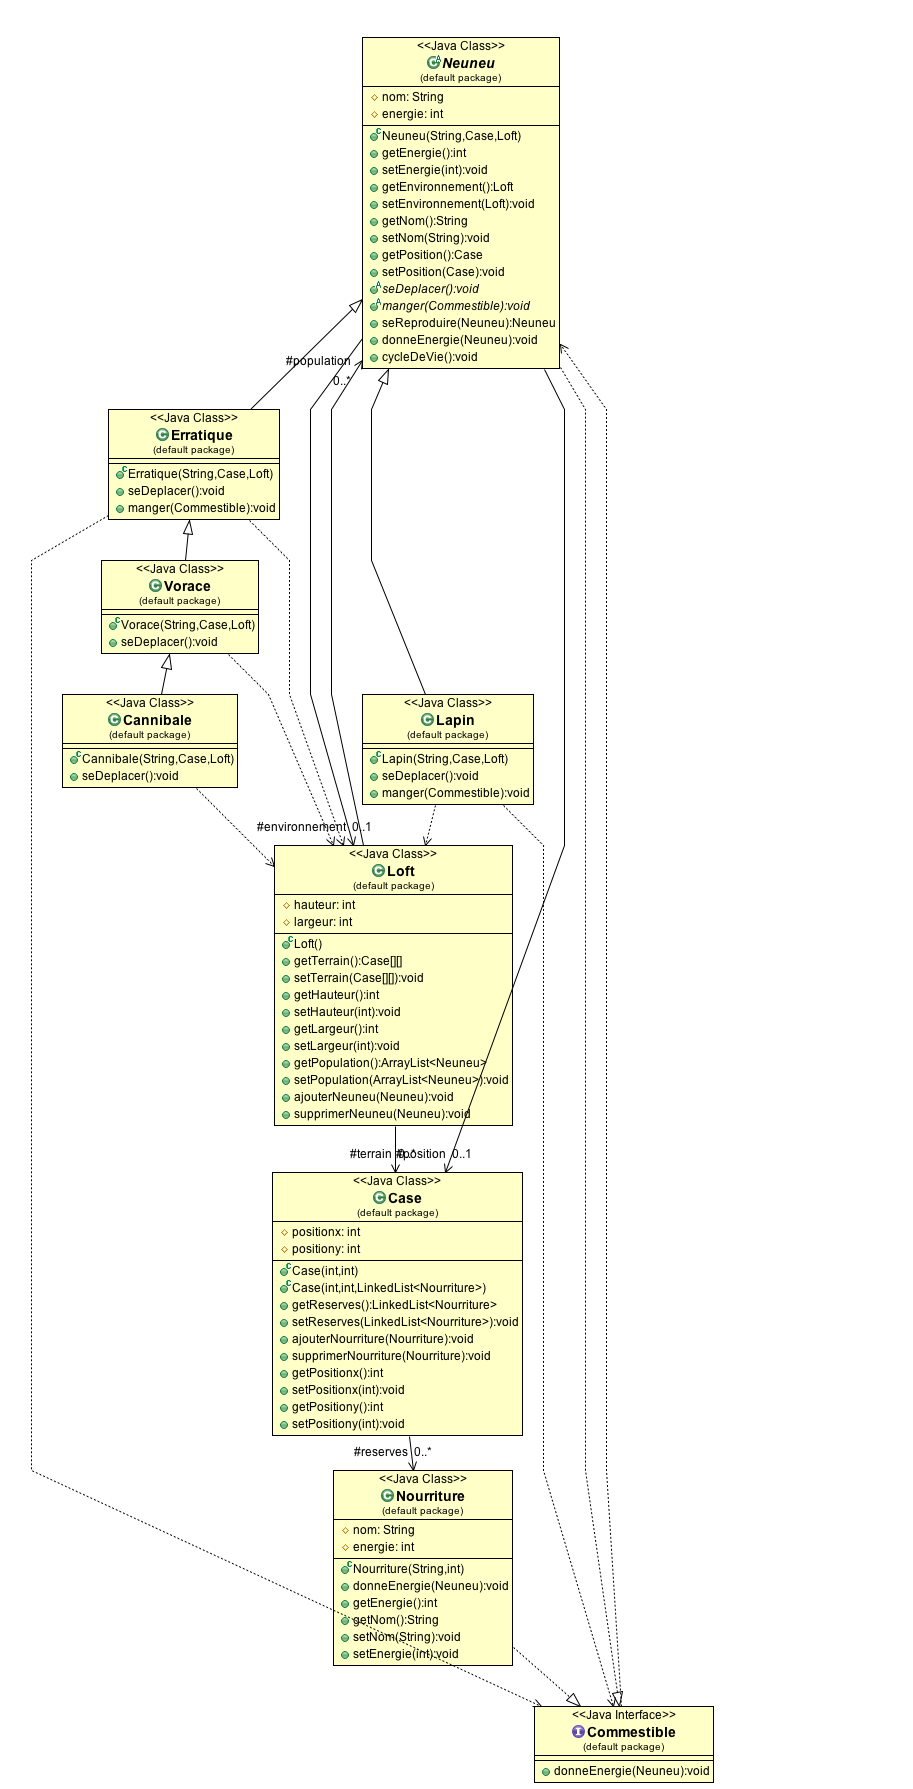
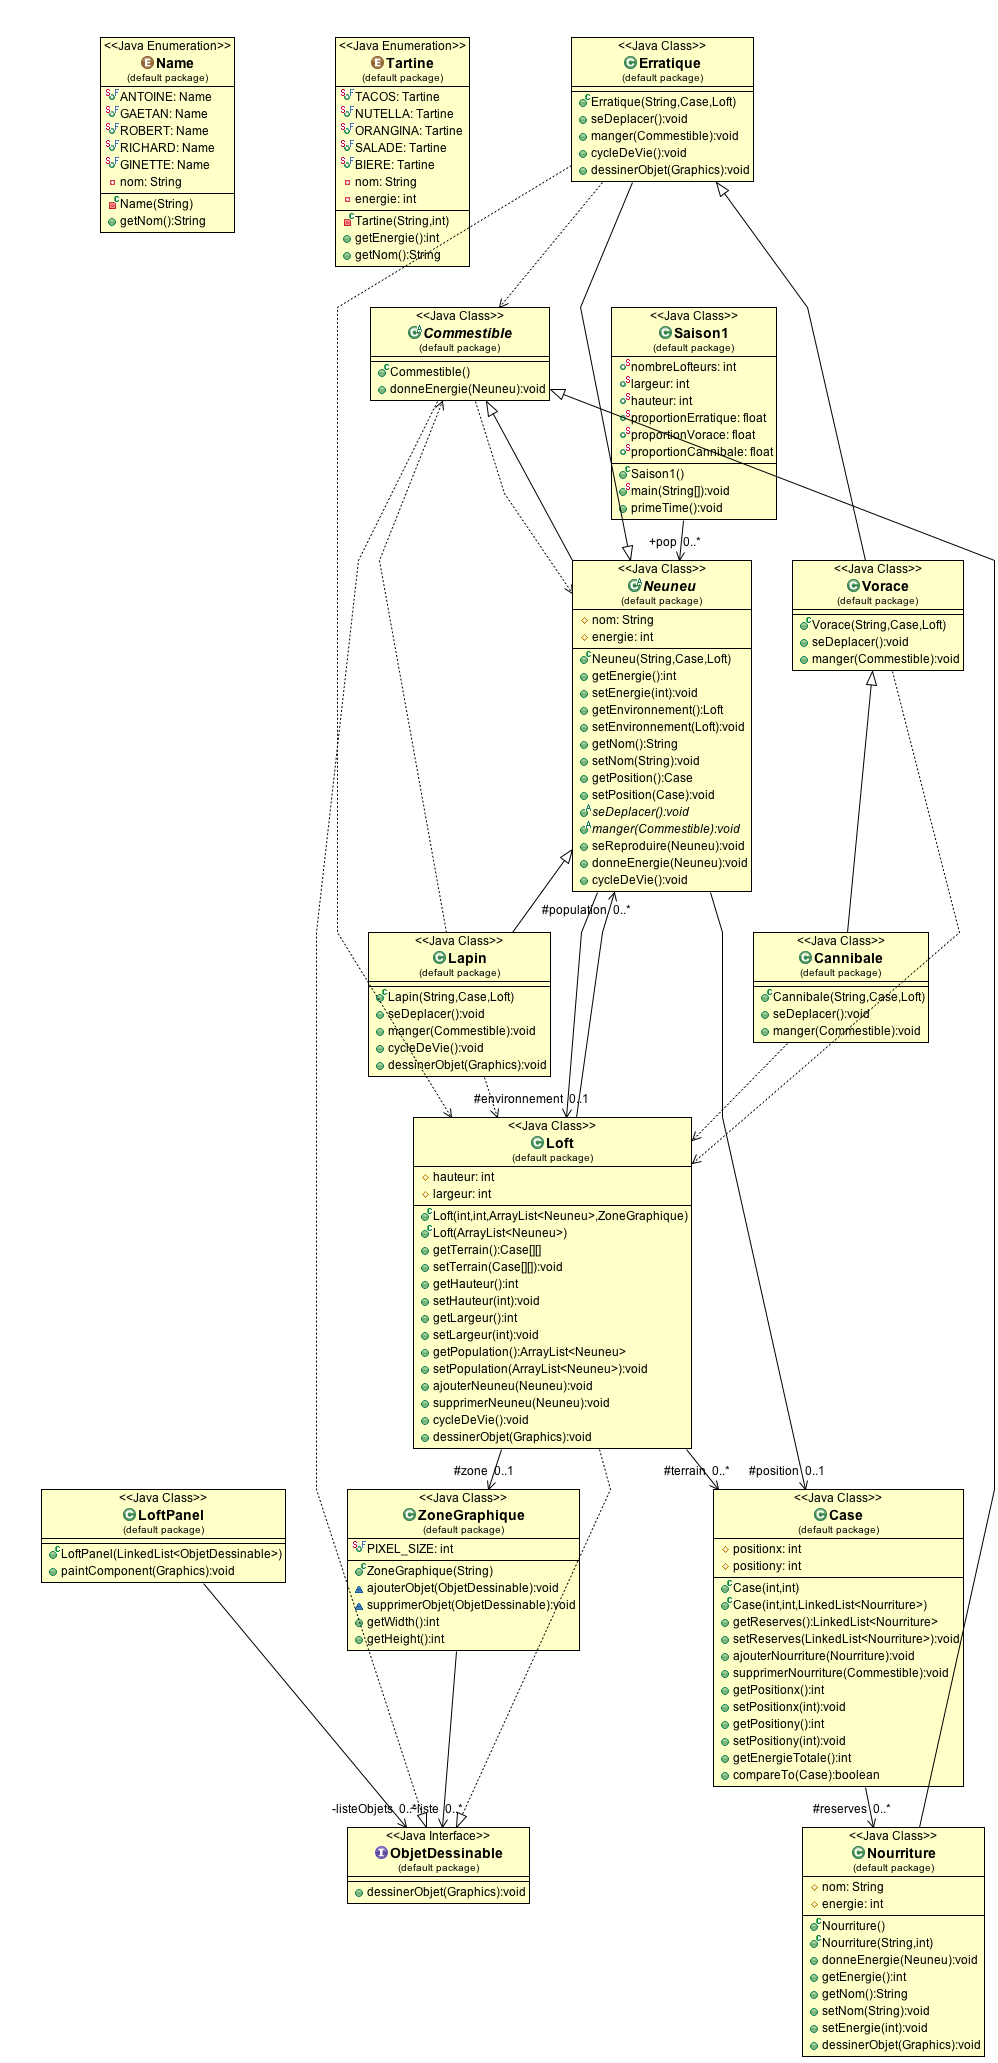
Start with GUI

diff --git a/TPObjetLofter/src/Saison1.java b/TPObjetLofter/src/Saison1.java
@@ -27,29 +27,29 @@ public class Saison1 {
 		//zone.ajouterObjet(loft);
 		
 		pop=new ArrayList<Neuneu>();
-		Loft loft = new Loft(largeur,hauteur,pop);
+		Loft loft = new Loft(largeur,hauteur,pop,zone);
 		
 		for (int i=0 ; i<nombreLofteurs ; i++) {
 			double x = Math.random();
 			if (x<proportionVorace) {
-				pop.add(new Vorace(Name.values()[(int)(Math.random()*5)].getNom(), loft.getTerrain()[(int)(Math.random()*29)][(int)(Math.random()*29)],loft));
+				loft.ajouterNeuneu(new Vorace(Name.values()[(int)(Math.random()*5)].getNom(), loft.getTerrain()[(int)(Math.random()*29)][(int)(Math.random()*29)],loft));
 			}
 			else {
 				x -= proportionVorace;
 				if (x<proportionErratique) {
-					pop.add(new Erratique(Name.values()[(int)(Math.random()*5)].getNom(), loft.getTerrain()[(int)(Math.random()*29)][(int)(Math.random()*29)],loft));
+					loft.ajouterNeuneu((new Erratique(Name.values()[(int)(Math.random()*5)].getNom(), loft.getTerrain()[(int)(Math.random()*29)][(int)(Math.random()*29)],loft)));
 				}
 				else {
 					x -= proportionErratique;
 					if (x<proportionCannibale) {
-						pop.add(new Cannibale(Name.values()[(int)(Math.random()*5)].getNom(), loft.getTerrain()[(int)(Math.random()*29)][(int)(Math.random()*29)],loft));
+						loft.ajouterNeuneu(new Cannibale(Name.values()[(int)(Math.random()*5)].getNom(), loft.getTerrain()[(int)(Math.random()*29)][(int)(Math.random()*29)],loft));
 					}
 				}
 			}
 		}
 		loft.setPopulation(pop);
 		zone.ajouterObjet(loft);
-		
+		zone.repaint();
 		loft.cycleDeVie();
 	}
 

diff --git a/TPObjetLofter/src/Nourriture.java b/TPObjetLofter/src/Nourriture.java
@@ -1,3 +1,5 @@
+import java.awt.Graphics;
+
 /**
  * 1 oct. 2012
  * Nourriture.java
@@ -7,7 +9,7 @@
  * @author bastienmarichalragot
  *
  */
-public class Nourriture implements Commestible{
+public  class Nourriture extends Commestible{
 	protected String nom;
 	protected int energie;
 	
@@ -24,7 +26,6 @@ public class Nourriture implements Commestible{
 		this.energie=energie;
 	}
 
-	@Override
 	public void donneEnergie(Neuneu lofteur) {
 		lofteur.setEnergie(lofteur.getEnergie()+ this.energie);
 		//this.energie=0; peut etre 
@@ -58,6 +59,12 @@ public class Nourriture implements Commestible{
 	 */
 	public void setEnergie(int energie) {
 		this.energie = energie;
+	}
+
+	@Override
+	public void dessinerObjet(Graphics g) {
+		// TODO Auto-generated method stub
+		//TODO bug on a pas la positon de la nourriture comment utiliser l'interface maintenant... ??
 	}
 	
 }

diff --git a/TPObjetLofter/src/Erratique.java b/TPObjetLofter/src/Erratique.java
@@ -1,3 +1,5 @@
+import java.awt.Color;
+import java.awt.Graphics;
 import java.util.Random;
 
 /**
@@ -67,6 +69,16 @@ public class Erratique extends Neuneu{
 		}		
 		
 		
+	}
+	@Override
+	public void dessinerObjet(Graphics g) {
+		// TODO Auto-generated method stub
+		int x = this.getPosition().getPositionx();
+        int y = this.getPosition().getPositiony();
+        int squaresize = ZoneGraphique.PIXEL_SIZE;
+        int squaregap = (int) Math.round(0.2 * (float) ZoneGraphique.PIXEL_SIZE);
+        g.setColor(Color.RED);
+        g.fillOval(x * squaresize + squaregap, y * squaresize + squaregap, squaresize - 2 * squaregap, squaresize - 2 * squaregap);
 	}
 	
 	

diff --git a/TPObjetLofter/src/ZoneGraphique.java b/TPObjetLofter/src/ZoneGraphique.java
@@ -23,6 +23,9 @@ public class ZoneGraphique extends JFrame {
 	 */
 	LinkedList<ObjetDessinable> liste;
 	
+    public static final int PIXEL_SIZE = 30;
+
+	
 	/**
 	 * constructeur
 	 *
@@ -57,6 +60,13 @@ public class ZoneGraphique extends JFrame {
 	 */
 	void ajouterObjet(ObjetDessinable o) {
 		liste.add(o);
+	}
+	/**
+	 * suppression d'un objet dans la zone graphique
+	 * @param o
+	 */
+	void supprimerObjet(ObjetDessinable o){
+		liste.remove(o);
 	}
 	
 	/**

diff --git a/TPObjetLofter/src/Lapin.java b/TPObjetLofter/src/Lapin.java
@@ -1,3 +1,5 @@
+import java.awt.Graphics;
+
 /**
  * 1 oct. 2012
  * Lapin.java
@@ -76,5 +78,11 @@ public class Lapin extends Neuneu{
 				break;
 			}
 		}		
+	}
+
+	@Override
+	public void dessinerObjet(Graphics g) {
+		// TODO Auto-generated method stub
+		
 	}
 }

diff --git a/TPObjetLofter/src/Commestible.java b/TPObjetLofter/src/Commestible.java
@@ -7,7 +7,8 @@
  * @author bastienmarichalragot
  *
  */
-public interface Commestible {
-	public void donneEnergie(Neuneu lofteur);
+public abstract class Commestible implements ObjetDessinable{
+	public  void donneEnergie(Neuneu lofteur) {
+	}
 
 }

diff --git a/TPObjetLofter/src/Neuneu.java b/TPObjetLofter/src/Neuneu.java
@@ -7,7 +7,7 @@
  * @author bastienmarichalragot
  *
  */
-public abstract class Neuneu implements Commestible{
+public abstract class Neuneu extends Commestible{
     
     //Attributs
     protected String nom;
